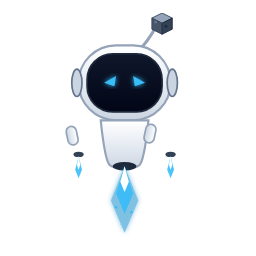
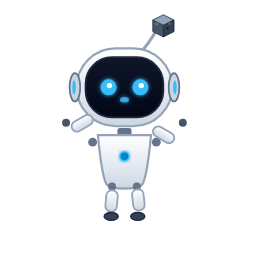
fix(companion): eliminate companion window scrollbars and replace thruster flames with cute dangling legs

Changed region(s): [[0.2188, 0.0312, 0.7188, 0.9062], [0.625, 0.5938, 0.6875, 0.6875], [0.6875, 0.4688, 0.75, 0.5]]

diff --git a/src/renderer/styles.css b/src/renderer/styles.css
@@ -773,15 +773,19 @@ footer span:last-child {
   color: #83917c;
 }
 .companion-host {
-  position: absolute;
-  bottom: 0px;
-  right: 0px;
-  width: auto;
+  position: fixed;
+  inset: 0;
+  width: 100%;
+  height: 100%;
+  box-sizing: border-box;
+  padding: 4px;
   display: flex;
   flex-direction: column;
   align-items: flex-end;
+  justify-content: flex-end;
   gap: 8px;
   background: transparent;
+  overflow: hidden !important;
 }
 .companion-placeholder {
   background: transparent !important;
@@ -873,9 +877,23 @@ footer span:last-child {
   font-size: 11px;
   padding: 7px;
 }
+html:has(.companion-host),
 body:has(.companion-host),
 :root:has(.companion-host) {
-  background: transparent;
+  background: transparent !important;
+  overflow: hidden !important;
+  margin: 0 !important;
+  padding: 0 !important;
+  width: 100% !important;
+  height: 100% !important;
+  scrollbar-width: none !important;
+}
+html:has(.companion-host)::-webkit-scrollbar,
+body:has(.companion-host)::-webkit-scrollbar,
+.companion-host::-webkit-scrollbar {
+  display: none !important;
+  width: 0 !important;
+  height: 0 !important;
 }
 @media (prefers-color-scheme: dark) {
   :root {
